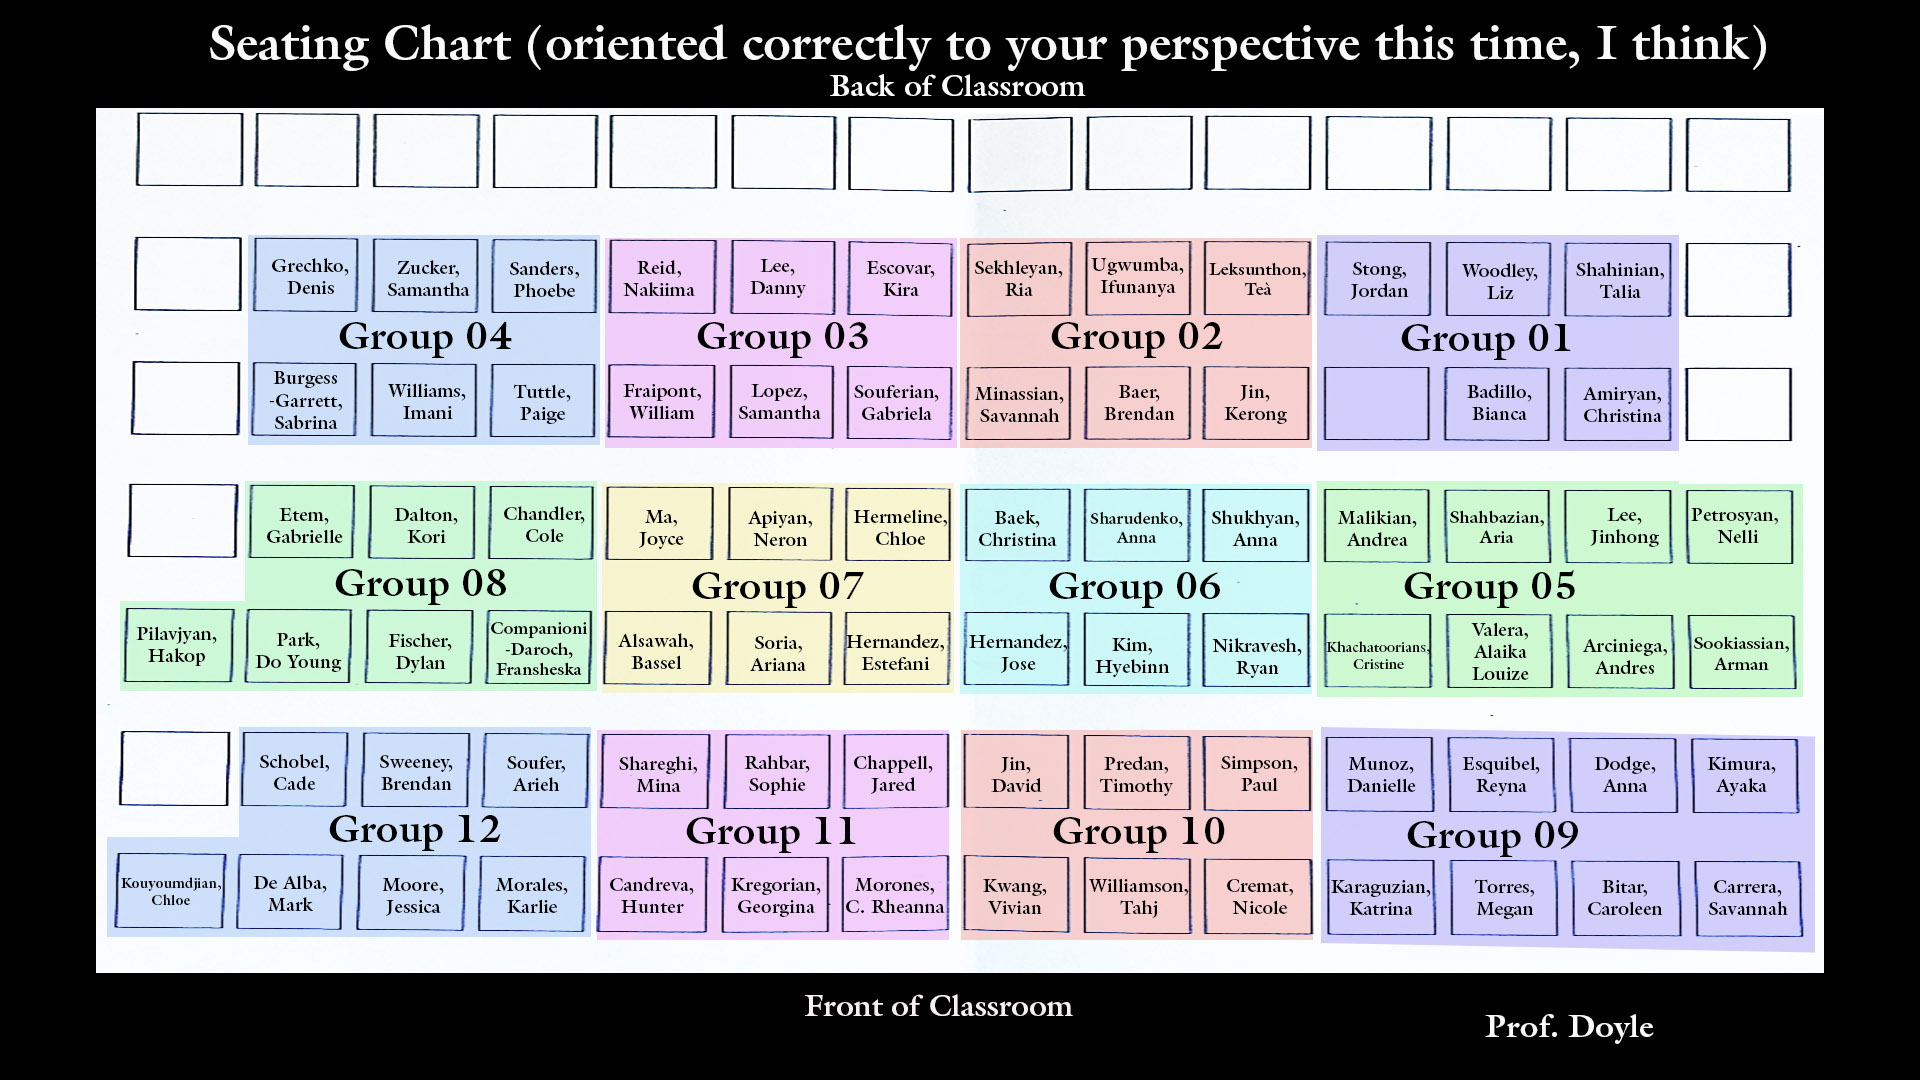
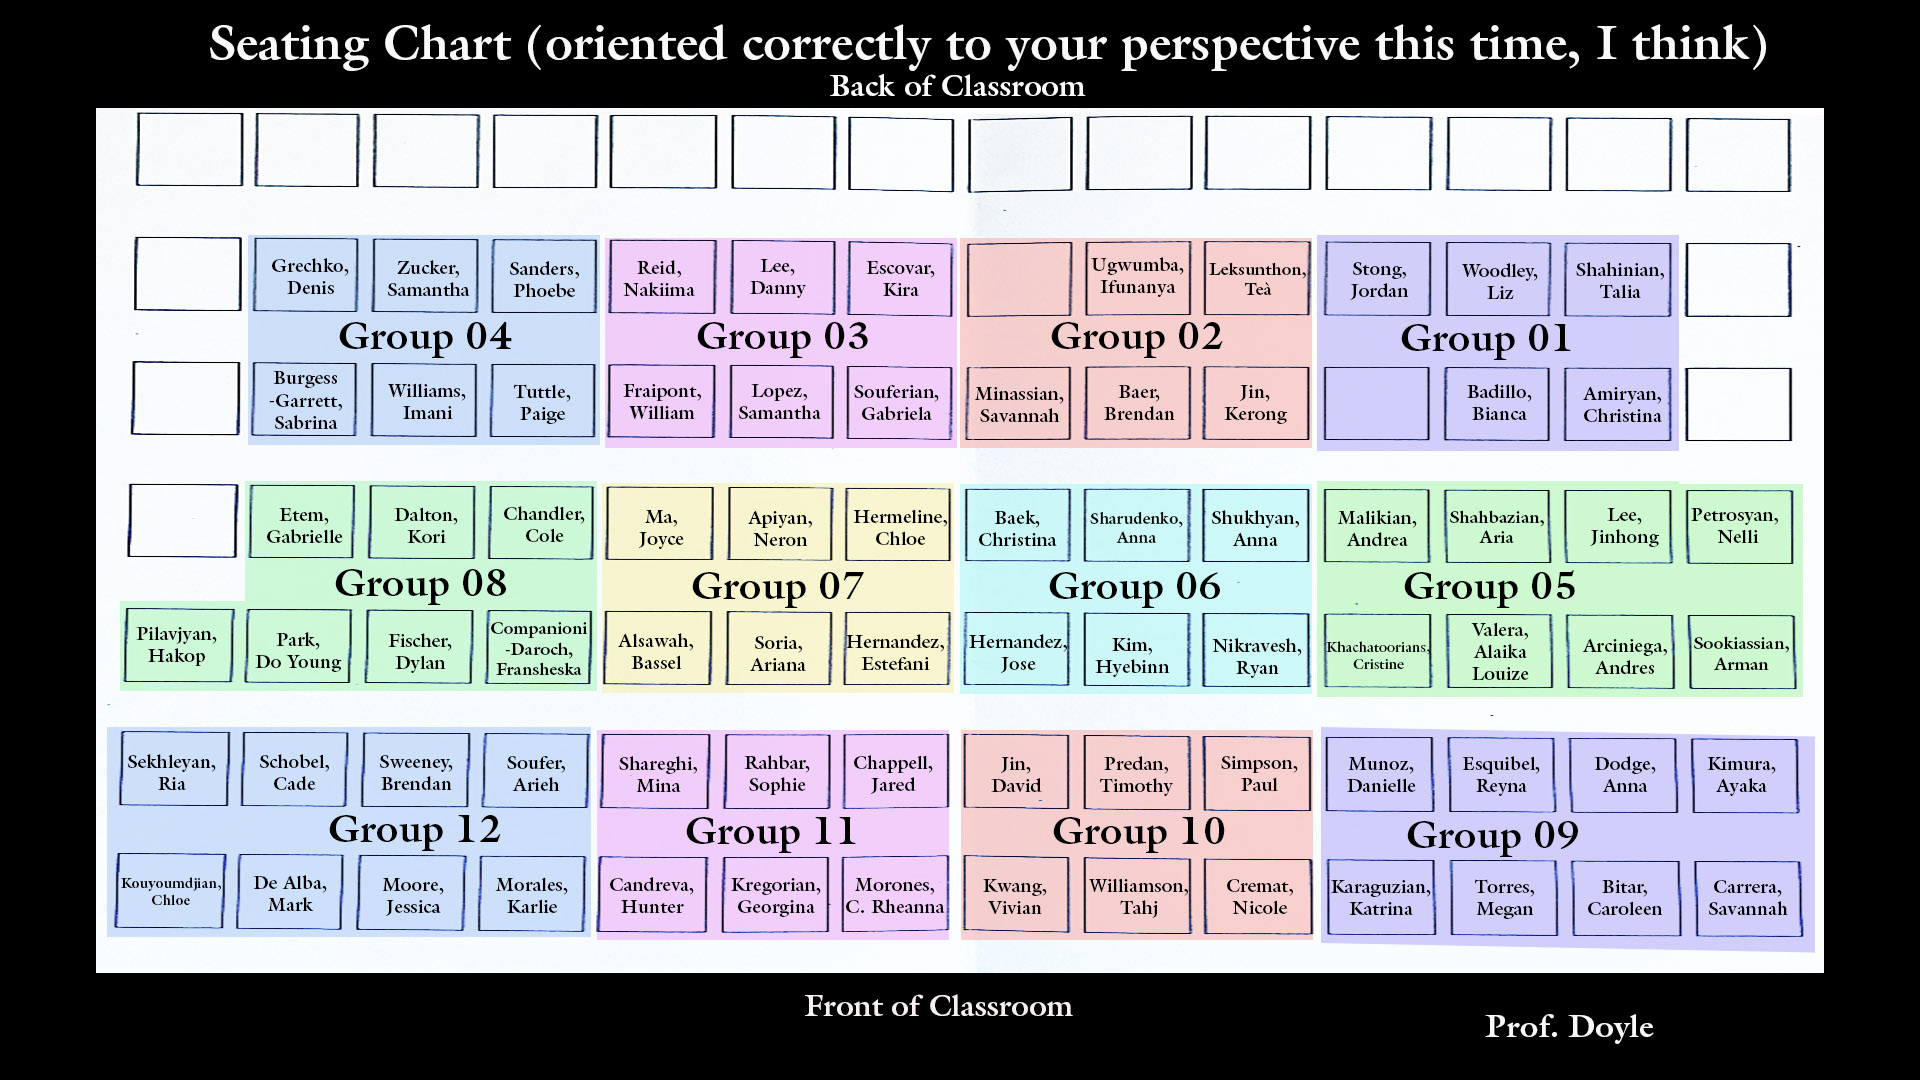
dates

Changed region(s): [[0.0312, 0.6722, 0.125, 0.7944], [0.5, 0.2444, 0.5625, 0.275]]

diff --git a/content/torts2023/syllabus/logistics.md b/content/torts2023/syllabus/logistics.md
@@ -33,7 +33,7 @@ Hall of the 70s
 ## Open office hours
 
 **Fall 2023** <br>
-Thursdays from 12:00pm to 1:30pm <br>
+Thursdays from 1:00pm to 2:30pm <br>
 Outside the Robinson Moot Courtroom
 
 During open office hours, any student or group of students from our class may stop by without an appointment. Anyone in the class is welcome to join or leave during that time. Please know that I _love_ office hours. While I am always up for talking about torts, I am also happy to talk about anything you’re interested in discussing: navigating law school, legal careers, the research I’m conducting when I’m not teaching, the latest season of the Great British Bakeoff — anything is fair game. My office hours are during lunchtime, so feel free to bring your lunch and eat as we chat about torts. Sometimes I'll even have cookies or brownies to share. Show up to find out.

diff --git a/content/torts2023-material/slides/03-course-overview.md b/content/torts2023-material/slides/03-course-overview.md
@@ -2,15 +2,23 @@ autoscale: true
 slidenumbers: true
 Footer: 
 
+![](images/chart_flipped.jpg)
 
-# Agenda
+---
 
-**Recap**
+# Course Overview
 
-**How to Read a Case**
-_(continued from last week)_
+---
 
-**Course Overview**
+# Administrative Crap
+
+**Office Hours**
+
+— New time: Thursdays from 1:00pm to 2:30pm
+
+**Thursday’s Reading Assignment**
+
+— Has been pushed to next Tuesday 
 
 ---
 
